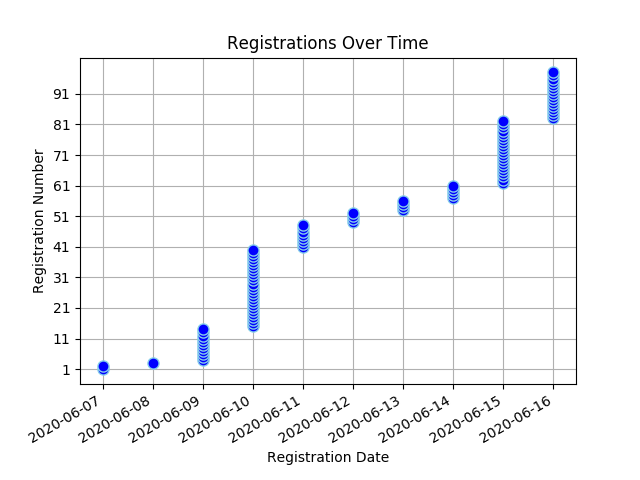
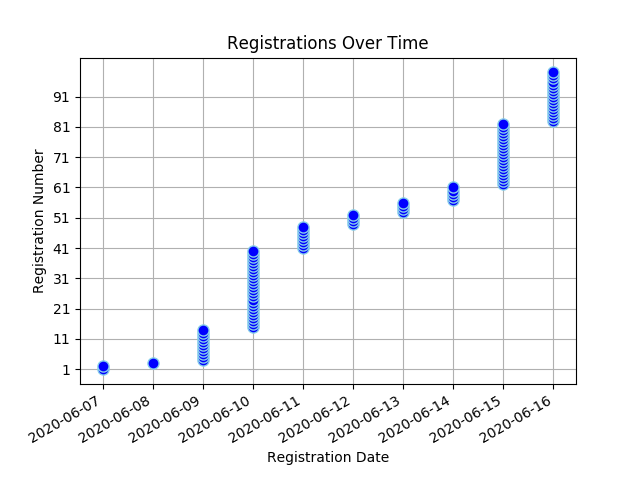
Registree stats backup on Tue Jun 16 16:35:23 SAST 2020

diff --git a/content/virtual_conf_stats/_index.md b/content/virtual_conf_stats/_index.md
@@ -16,7 +16,7 @@ draft: false
 </head>
 <body>
 <h1 style="color: #000000;">Virtual Convention Registration Stats</h1>
-<ul><li><strong>Number of Registrees</strong>: 98</li>
+<ul><li><strong>Number of Registrees</strong>: 99</li>
 </ul><a href="/docs/virtual_convention_stats.csv">Download registration details here</a>
 <h2>Registrees</h2>
 <table id="registreeTable" class="tablesorter" border="1" padding=1>
@@ -33,6 +33,7 @@ Club
 <tbody>
 <tr><td>Abramsohn, Alan</td><td>Milnerton</td></tr>
 <tr><td>Abramsohn, Janine</td><td>Sea Point</td></tr>
+<tr><td>Baumgarten, Linda</td><td>Sea Point</td></tr>
 <tr><td>Botha, Lynette</td><td>Cowies Hill</td></tr>
 <tr><td>BRAGA BORGES, JOSE</td><td>MALMESBURY</td></tr>
 <tr><td>Bull, Christopher (Chris)</td><td>Johannesburg - The Wilds</td></tr>
